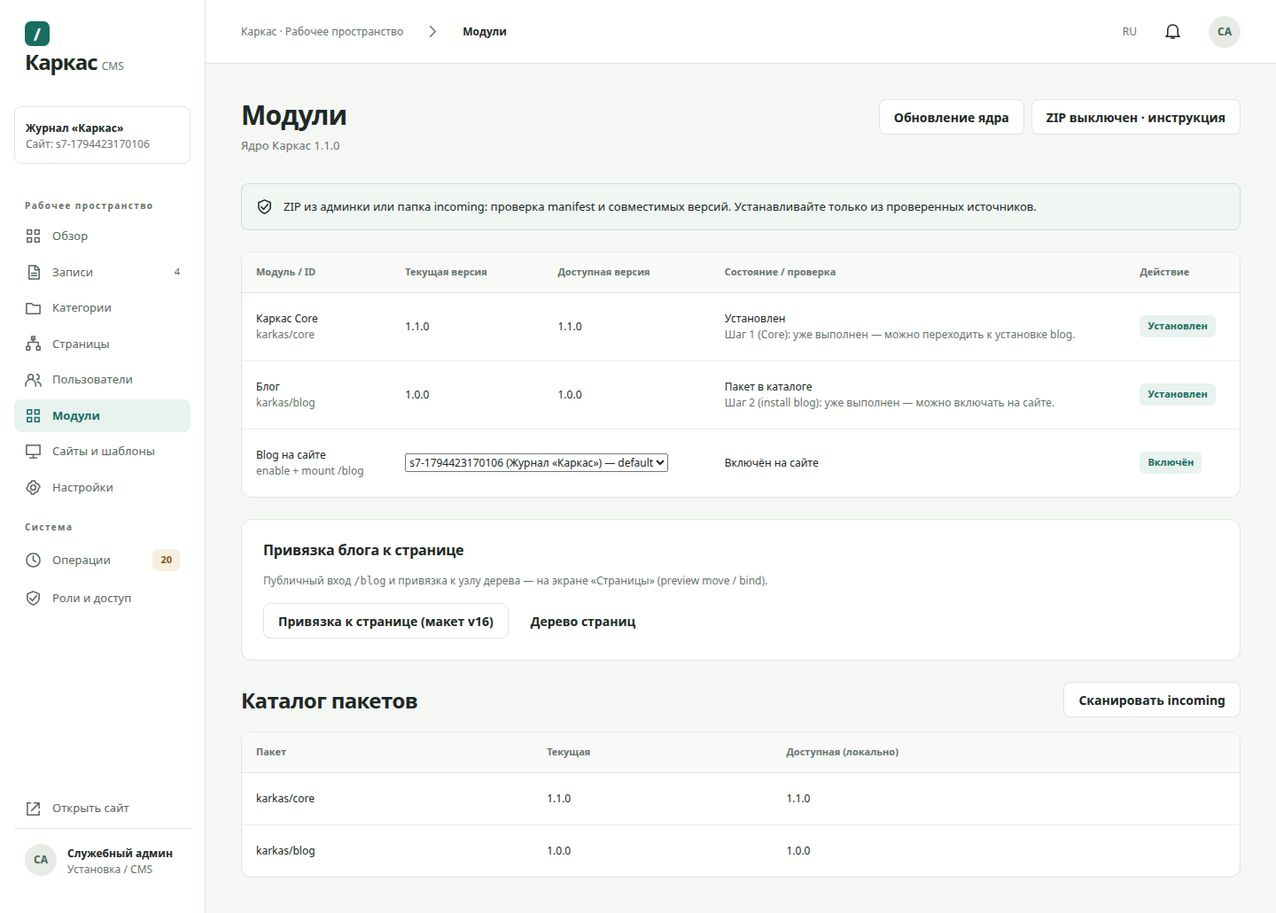
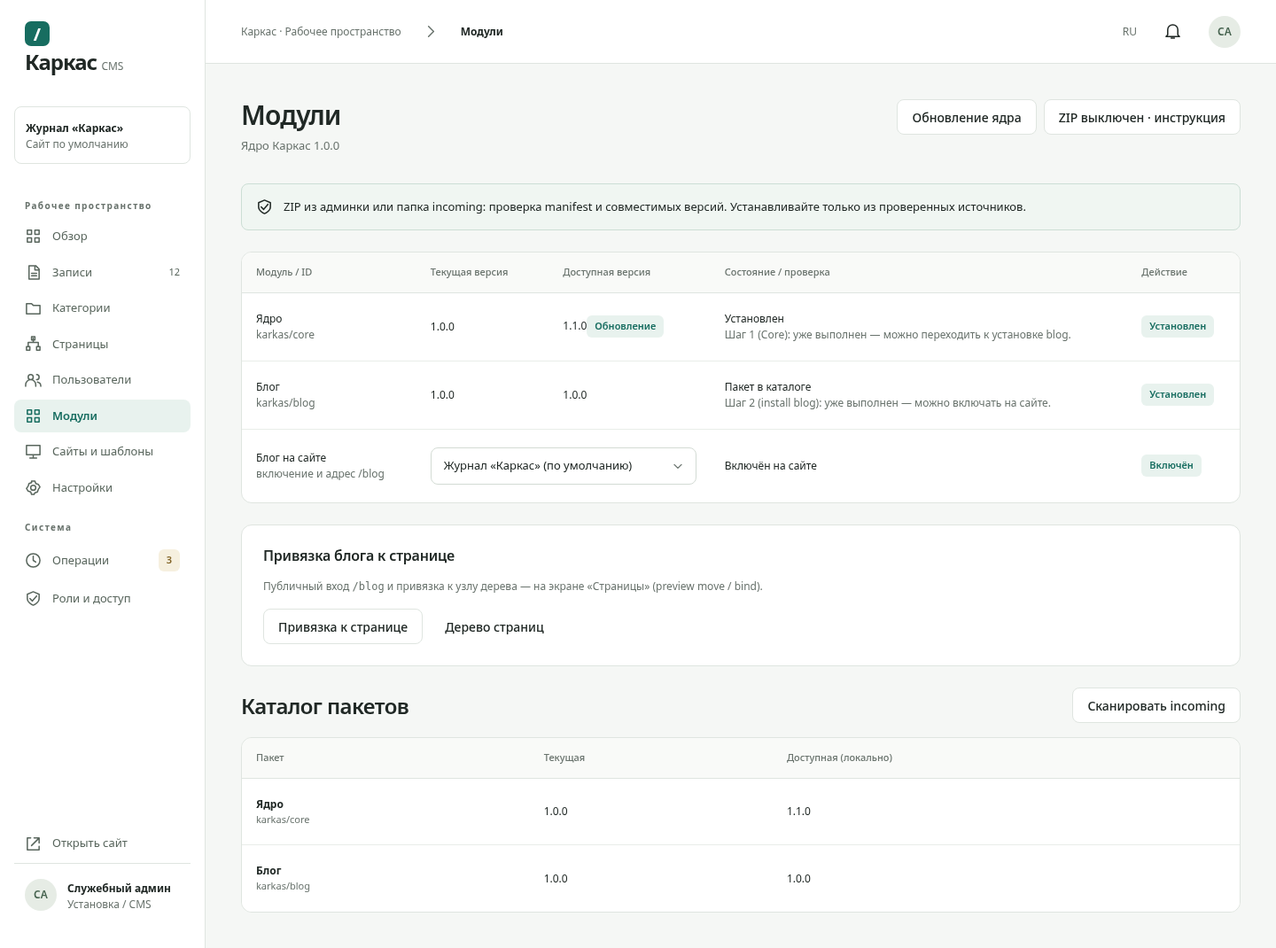
docs: stage-7.5 mockup/result pairs on fresh demo DB, local CI-like runs, CI link placeholder

diff --git a/docs/stage-7.5.md b/docs/stage-7.5.md
@@ -1,160 +1,159 @@
-# Stage 7.5 — Admin shell по макетам Дизайнера
+# Stage 7.5 — админка по макету v16
 
-Ветка **`grok_bot` → `develop`**, PR **#19** (доработка после ревью 12.11), **не мержить** до ревью Den.
+Ветка **`grok_bot`** (база `develop`), **не мержить** до ревью Den. Этап 8 не начат.
 
-**code-head:** `bcf04ff`  
-**docs-head:** `bcf04ff`
+**code-head:** `4bd831c` (коммиты этого прохода — см. `git log 43ef5a8..grok_bot`)
 
 ---
 
-## Цель
+## Что сделано в этом проходе
 
-Светлая админка на `tokens.css`, роутинг `/admin/...`, сайдбар как в макете v16, экраны на существующем API (этапы 3–7), фиксы blog (п. 4) и расхождений ревью 12.11.
+| # | Пункт | Статус | Как проверено |
+|---|---|---|---|
+| 1 | e2e stage4/stage5: обновление ядра | **готово** | `CoreUpdatePage` показывает текущую и доступную версию ядра. `helpers/core-upgrade-flow.ts` ждёт данные (`core-version-summary` / `core-version-available`) и ветвится: на чистой базе (Core 1.0.0, в каталоге 1.1.0) — полное обновление (кнопка disabled → чекбокс → enabled, шаг плана `karkas/core 1.0.0 → 1.1.0`, сообщение «Core обновлён до 1.1.0», summary, пустой план); если ядро уже обновлено — проверяется idle-состояние. В прогоне: desktop — `upgraded`, mobile — `already-current` (та же база). |
+| 2 | Flake `stage75-blog-admin` | **готово** | Перед `/admin/modules` ждём `admin-authenticated`, URL и `admin-shell` (без force/таймаутов). |
+| 3 | Скриншоты только на свежей демо-базе | **готово** | `stage75-screenshots.spec.ts` пропускается без `KARKAS_SCREENSHOTS=1`, поэтому в обычном `npm test` (и в CI) не трогает e2e-базу. Снимки делает `scripts/capture-stage75-screenshots.sh`: `down -v` → `up mysql app` → reset+seed демо → снимки 1440/390. |
+| 4 | Соответствие макету v16 | **готово, с оговорками ниже** | Дерево: строки на всю ширину, отступ по уровню, свёртка, статус в отдельной колонке. Записи: категория, автор, дата/время МСК, поиск + фильтры, сортировка, пагинация по 10. Обновление ядра: таблица совместимости, требования, план, `karkas/core` один раз. Операции: человекочитаемые типы и статусы, МСК. |
+| 5 | Названия вместо ID, компоненты вместо `<select>`, без «(макет v16)» | **готово** | Сайт везде — по названию (при дублях названия добавляется домен). Нативные `select` заменены на `AdminSelect` (combobox + listbox, клавиатура). Подписи «(макет v16)» и упоминания макета в UI убраны. |
+| 6 | 390: без горизонтального вылета, сворачиваемый сайдбар | **готово** | Новый `stage75-layout-overflow.spec.ts` проверяет все экраны админки на 1440 и 390. `overflow-x: hidden` с `.admin-main` **убран**; широкие таблицы на 390 прокручиваются внутри своей карточки (`.table-card { overflow-x: auto }`), записи на 390 — карточками. Сайдбар на ≤960px — выезжающий, кнопка `admin-menu-toggle`, закрытие по Esc/подложке/смене маршрута. |
+| 7 | Этот документ | **готово** | Пары макет/результат ниже; ссылка на CI — плейсхолдер. |
 
-## Артефакты
+### Оговорки (честно)
 
-| Артефакт | Путь |
-|----------|------|
-| HTML + `tokens.css` + `png/` | `docs/mockups/` |
-| Стили admin-ui | `admin-ui/src/tokens.css`, `admin-ui/src/admin-ui.css` |
-| SPA fallback | `AdminSpaController` + `public/admin/.htaccess` |
-| Скриншоты | `docs/stage-7.5/screenshots/` (Docker Apache :8080) |
-| Demo seed (dev/test) | `POST /api/v1/admin/demo/seed` — только `APP_ENV=dev|test` **и** `KARKAS_ALLOW_DEMO_SEED=1`; в **prod** маршрута нет (404) |
-| **Чистая база для скринов** | `POST /api/v1/admin/demo/reset` (те же guard) + `scripts/reset-demo-database.sh` (`api` \| `volume`) |
+- **Категории и авторы:** API нет до этапа 8. В списке записей колонка «Категория» показывает «Без категории», «Автор» — «Служебный админ» (единственный пользователь); фильтры работают по этим полям, когда API их отдаст (поля `category?` / `author?` уже в типе).
+- **Дерево страниц:** в демо-данных нет «Главной» и узла «Журнал (Модуль: Блог)» из макета — показано реальное дерево из API. Drag-and-drop — этап 8, перемещение через форму.
+- **Пользователи / Роли / Категории:** экраны-заглушки «нет API (этап 8)».
+- **390:** макетов 390 в наборе нет — сравнивали с 1440-макетом по структуре. Таблицы модулей/сайтов/совместимости на 390 прокручиваются внутри карточки — это допустимо, страница целиком по ширине не вылезает (проверяется тестом).
+- **Операции:** отдельного макета нет; `mock-1440-operations.png` раньше был копией макета обзора — удалён, чтобы не вводить в заблуждение.
+- Запись журнала `package.install` для ядра называется «Установка пакетов» (по payload нельзя отличить первую установку от обновления).
 
-### Чистая демо-база (скриншоты, не e2e)
+### Demo reset / seed
 
-Чтобы в «Сайтах» не копились e2e-сайты:
+`POST /api/v1/admin/demo/seed` и `/demo/reset` работают **только** при `APP_ENV=dev|test` **и** `KARKAS_ALLOW_DEMO_SEED=1` (`DemoApiGate`); иначе **404**, в prod — всегда 404 (`AdminDemoRoutesEnvironmentTest`: матрица gate, prod-kernel → 404, test+флаг → 401 без сессии). В CI-джобе Playwright флаг приходит из `docker-compose.yml` (`KARKAS_ALLOW_DEMO_SEED: ${KARKAS_ALLOW_DEMO_SEED:-1}` в env сервиса app) — workflow не менялся.
 
-1. `./scripts/reset-demo-database.sh api` — сессия + `demo/reset` (purge не-default сайтов + seed).
-2. `./scripts/reset-demo-database.sh volume` — пересоздать том MySQL, миграции, затем `api`.
-
-`e2e/tests/stage75-screenshots.spec.ts` вызывает **`resetAdminDemoForScreenshots`**, не `seed` alone. Полный Playwright-прогон на reset-базе **не гонять**.
+Ручной сброс демо-базы: `./scripts/reset-demo-database.sh api|volume`; снимки целиком — `./scripts/capture-stage75-screenshots.sh` (на этом боксе: `DOCKER_COMPOSE="sudo docker compose" COMPOSE_FILES="-f docker-compose.yml -f docker-compose.mysql84.yml"`).
 
 ---
 
 ## Скриншоты: макет / результат
 
-Макет **390** у Дизайнера в png-наборе **нет** — в колонке «Макет 390» помечено **—**.
-
-**Обновление пар mock/result (1440 и 390):** после `reset-demo-database.sh` и `stage75-screenshots.spec.ts` — по команде Den «тесты: go». Ниже — структура каталога; актуальные `result-*` заменят старые снимки с «грязной» базой.
+Результаты сняты на **свежей демо-базе** (`capture-stage75-screenshots.sh`, MySQL 8.4), не на e2e-базе. Макетов 390 нет.
 
 ### Вход
 
-| | 1440 | 390 |
-|---|------|-----|
-| **Макет** | ![mock login 1440](screenshots/mock-1440-login.png) | — |
-| **Результат** | ![result login 1440](screenshots/result-1440-login.png) | ![result login 390](screenshots/result-390-login.png) |
+| Макет 1440 | Результат 1440 | Результат 390 |
+|---|---|---|
+| ![макет login 1440](screenshots/mock-1440-login.png) | ![результат login 1440](screenshots/result-1440-login.png) | ![результат login 390](screenshots/result-390-login.png) |
 
 ### Обзор
 
-| | 1440 | 390 |
-|---|------|-----|
-| **Макет** | ![mock dashboard 1440](screenshots/mock-1440-dashboard.png) | — |
-| **Результат** | ![result dashboard 1440](screenshots/result-1440-dashboard.png) | ![result dashboard 390](screenshots/result-390-dashboard.png) |
+| Макет 1440 | Результат 1440 | Результат 390 |
+|---|---|---|
+| ![макет dashboard 1440](screenshots/mock-1440-dashboard.png) | ![результат dashboard 1440](screenshots/result-1440-dashboard.png) | ![результат dashboard 390](screenshots/result-390-dashboard.png) |
 
 ### Записи
 
-| | 1440 | 390 |
-|---|------|-----|
-| **Макет** | ![mock posts 1440](screenshots/mock-1440-posts.png) | — |
-| **Результат** | ![result posts 1440](screenshots/result-1440-posts.png) | ![result posts 390](screenshots/result-390-posts.png) |
+| Макет 1440 | Результат 1440 | Результат 390 |
+|---|---|---|
+| ![макет posts 1440](screenshots/mock-1440-posts.png) | ![результат posts 1440](screenshots/result-1440-posts.png) | ![результат posts 390](screenshots/result-390-posts.png) |
 
-### Редактор / история записи
+### Редактор записи
 
-| | 1440 | 390 |
-|---|------|-----|
-| **Макет** | — (editor / history в наборе v16 частично) | — |
-| **Результат** | ![result post editor 1440](screenshots/result-1440-post-editor.png) | ![result post editor 390](screenshots/result-390-post-editor.png) |
-| | ![result post history 1440](screenshots/result-1440-post-history.png) | ![result post history 390](screenshots/result-390-post-history.png) |
+| Макет 1440 | Результат 1440 | Результат 390 |
+|---|---|---|
+| ![макет post-editor 1440](screenshots/mock-1440-post-editor.png) | ![результат post-editor 1440](screenshots/result-1440-post-editor.png) | ![результат post-editor 390](screenshots/result-390-post-editor.png) |
 
-### Страницы / модули / сайты / настройки / операции / core / users / roles
+### История версий
 
-Пары `mock-1440-*` / `result-1440-*` и `result-390-*` для: `categories`, `pages`, `modules`, `sites`, `settings`, `operations`, `core-update`, `users`, `roles` — каталог `docs/stage-7.5/screenshots/`.
+| Макет 1440 | Результат 1440 | Результат 390 |
+|---|---|---|
+| ![макет post-history 1440](screenshots/mock-1440-post-history.png) | ![результат post-history 1440](screenshots/result-1440-post-history.png) | ![результат post-history 390](screenshots/result-390-post-history.png) |
 
----
+### Категории
 
-## Blog п. 4 (кратко)
+| Макет 1440 | Результат 1440 | Результат 390 |
+|---|---|---|
+| ![макет categories 1440](screenshots/mock-1440-categories.png) | ![результат categories 1440](screenshots/result-1440-categories.png) | ![результат categories 390](screenshots/result-390-categories.png) |
 
-| # | Причина | Фикс | Тест |
-|---|---------|------|------|
-| 1 | API-ошибки не показывались | `apiError.ts` | HTTP + UI |
-| 2 | Пустой `X-Karkas-Reauth` после reload | `ReauthModal` + sessionStorage | `stage75-blog-admin.spec.ts` |
-| 3 | Нет порядка шагов | wizard hints на `/modules` | `stage75-admin-navigation` |
-| 4 | plan/sites API | backend try/catch + 401 | `Stage75BlogAdminHttpTest` |
-| 5 | duplicate mount | idempotent enable | double enable HTTP |
-| 6 | `site_label` хардкод | label из сайта | e2e multisite |
-| 7 | Привязка blog | экраны `/modules/blog/*` (v16) | `stage7-blog-facade.spec.ts` (desktop) |
-| 8 | Flake после login | `admin-authenticated` + shell до `/modules` | `stage75-blog-admin.spec.ts` |
+### Страницы (дерево)
 
----
+| Макет 1440 | Результат 1440 | Результат 390 |
+|---|---|---|
+| ![макет pages 1440](screenshots/mock-1440-pages.png) | ![результат pages 1440](screenshots/result-1440-pages.png) | ![результат pages 390](screenshots/result-390-pages.png) |
 
-## Роуты admin-ui
+### Модули
 
-| Путь | Экран | API |
-|------|--------|-----|
-| `/admin/login` | staff-login карточка | session |
-| `/admin/dashboard` | Обзор (stats, ops, posts) | `GET /api/v1/admin/dashboard` |
-| `/admin/posts` | Таблица, фильтры, пагинация | `GET /api/v1/blog/posts` |
-| `/admin/posts/new`, `/:id`, `/:id/history` | Редактор / история | blog posts API |
-| `/admin/categories` | Заглушка этап 8 | **нет API** |
-| `/admin/pages` | tree-layout, move modal, preview | sites/pages API |
-| `/admin/modules` | installer + ссылка на binding | platform/install |
-| `/admin/modules/blog/{binding,unbind,…}` | binding flows | bind/unbind API |
-| `/admin/sites` | multisite + notice шаблонов | `/api/v1/sites` |
-| `/admin/settings` | settings-layout (read-only поля) | ZIP/maintenance + multisite read |
-| `/admin/core-update` | текущая + доступная, план, confirm | platform/plan + upgrade |
-| `/admin/operations` | log-entry карточки | `GET /api/v1/admin/platform/operations` |
-| `/admin/users`, `/admin/roles` | Заглушка этап 8 | **нет API** |
+| Макет 1440 | Результат 1440 | Результат 390 |
+|---|---|---|
+| ![макет modules 1440](screenshots/mock-1440-modules.png) | ![результат modules 1440](screenshots/result-1440-modules.png) | ![результат modules 390](screenshots/result-390-modules.png) |
 
----
+### Сайты и шаблоны
 
-## Вердикт по экранам (v16, ревью 12.11)
+| Макет 1440 | Результат 1440 | Результат 390 |
+|---|---|---|
+| ![макет sites 1440](screenshots/mock-1440-sites.png) | ![результат sites 1440](screenshots/result-1440-sites.png) | ![результат sites 390](screenshots/result-390-sites.png) |
 
-| Экран | Вердикт | Комментарий |
-|-------|---------|-------------|
-| Shell (sidebar, topbar) | **как в макете** | Workspace по **названию** сайта; на ≤960px — выезжающий сайдбар + menu, `overflow-x` без горизонтального вылета |
-| Вход (`staff-login`) | **как в макете** | Карточка; 2FA — этап 8 |
-| Обзор | **как в макете** (данные API) | Без графиков из макета |
-| Записи | **как в макете** (список) | Категория / автор / дата **МСК**, вкладки, поиск, сортировка, пагинация (client); WYSIWYG **отложено** |
-| Редактор / история | **частично** | Plain text API; статус через `AdminSelect` |
-| Категории | **нет API** | Заглушка этап 8 |
-| Страницы (`tree.html`) | **как в макете** (без DnD) | Строка на всю ширину, **статус в колонке**; move modal; DnD **этап 8** |
-| Модули | **частично** | Installer; сайт в `AdminSelect` по label |
-| Blog binding | **как в макете** (сценарии) | Instance — название сайта, без дубля `site_key` |
-| Сайты | **частично** | Таблица с id/key (админ-данные); скрины — на reset-базе |
-| Настройки | **частично** | Секции макета; SMTP **этап 8** |
-| Core update | **как в макете** (после фикса) | **Текущая + доступная** версии; таблица совместимости, требования, план **без дубля** `karkas/core` в шагах |
-| Операции | **как в макете** (журнал) | Человекочитаемые типы/статусы, МСК |
-| Пользователи / Роли | **нет API** | Заглушка |
-| Mobile 390 | **частично → ок по shell** | Сайдбар collapsible; контентные таблицы на узкой ширине всё ещё плотные |
+### Настройки
+
+| Макет 1440 | Результат 1440 | Результат 390 |
+|---|---|---|
+| ![макет settings 1440](screenshots/mock-1440-settings.png) | ![результат settings 1440](screenshots/result-1440-settings.png) | ![результат settings 390](screenshots/result-390-settings.png) |
+
+### Операции
+
+| Макет 1440 | Результат 1440 | Результат 390 |
+|---|---|---|
+| — (отдельного макета нет в наборе v16; ближайший — блок «Фоновые операции» на обзоре) | ![результат operations 1440](screenshots/result-1440-operations.png) | ![результат operations 390](screenshots/result-390-operations.png) |
+
+### Обновление ядра
+
+| Макет 1440 | Результат 1440 | Результат 390 |
+|---|---|---|
+| ![макет core-update 1440](screenshots/mock-1440-core-update.png) | ![результат core-update 1440](screenshots/result-1440-core-update.png) | ![результат core-update 390](screenshots/result-390-core-update.png) |
+
+### Пользователи
+
+| Макет 1440 | Результат 1440 | Результат 390 |
+|---|---|---|
+| ![макет users 1440](screenshots/mock-1440-users.png) | ![результат users 1440](screenshots/result-1440-users.png) | ![результат users 390](screenshots/result-390-users.png) |
+
+### Роли и доступ
+
+| Макет 1440 | Результат 1440 | Результат 390 |
+|---|---|---|
+| ![макет roles 1440](screenshots/mock-1440-roles.png) | ![результат roles 1440](screenshots/result-1440-roles.png) | ![результат roles 390](screenshots/result-390-roles.png) |
 
 ---
 
-## Тесты
+## Локальная проверка (как CI, Docker Compose, PHP 8.4 + MySQL 8.4)
 
-- PHPUnit: stage75 suite
-- Playwright: `stage4`/`stage5` core upgrade по `upgrade-core` / `core-upgrade-idle`, не по тексту summary; `helpers/core-upgrade-flow.ts`
+Финальные два раунда на коде `4bd831c` (тот же код, что в коммитах; 21.11.2026 ночью по МСК). Скрипт раунда — локальный (`/workspace/karkas-proof/ci-round.sh`, не в репозитории); шаги повторяют джобы `.github/workflows/ci.yml`.
 
-### Прогон (ожидает «тесты: go»)
+| Шаг | Команда | Раунд 1 | Раунд 2 |
+|---|---|---|---|
+| php-static | `composer phpstan && composer lint:php` (образ `karkas-cms-cli`, PHP 8.4) | phpstan `[OK] No errors`, cs-fixer 0 файлов | то же |
+| PHPUnit | `vendor/bin/phpunit` с `DATABASE_URL=mysql://…/karkas_test?serverVersion=8.4`, `APP_SECRET` как в CI | Tests 74, Assertions 257, Skipped 1 (`ApacheWebSapiProbeTest` — нужен `STAGE0_HTTP_PROBE_BASE_URL`), 0 failures | то же |
+| admin-ui | `npm run lint && npm run typecheck && npm run build` | 0 errors, 2 warnings (уже были до прохода: react-refresh, exhaustive-deps в AdminContext) | то же |
+| Playwright + axe | свежий стек `docker compose up -d mysql app` (MySQL 8.4), `CI=1 npx playwright test --retries=0 --workers=1`, проекты desktop-chrome 1440 и mobile-chrome 390 | **89 passed, 31 skipped, 0 failed** | **89 passed, 31 skipped, 0 failed** |
 
-Локальный и **PR CI** на push `grok_bot` — зафиксировать зелёный run в этом разделе после прогона.
+31 skipped = 28 снимков `stage75-screenshots` (opt-in, `KARKAS_SCREENSHOTS=1`) + 3 desktop-only теста на mobile (`stage6` ×2, `stage7-blog-facade`). Retries выключены (в CI — 1). Обновление ядра: desktop — `upgraded` (1.0.0 → 1.1.0), mobile — `already-current`.
 
-PHPUnit / Playwright / axe / screenshot spec — **не запускались** в кодовом проходе (ограничение Den).
+Скриншоты: `./scripts/capture-stage75-screenshots.sh` на свежей демо-базе — 30 passed (28 снимков + 2 проверки).
+
+Отличия от CI: Playwright-джоба CI использует MySQL 8.0 (локально 8.4); Node локально 24, в CI 22.
 
 ---
 
 ## CI
 
-PR **`grok_bot` → `develop`** — смотреть актуальный зелёный **Playwright + PHPUnit** workflow на GitHub Actions после push (не только локальный итог). Workflow файлы не менялись.
+Зелёный run GitHub Actions для этого head: **_ссылка на CI run — добавить после push_**. Workflow-файлы не менялись; Actions в этом проходе не запускались.
 
 ---
 
 ## Вопросы к Den (с предложениями)
 
-1. **Категории** — минимальный read-only API в 7.5.1 или ждать этап 8?
-2. **Шаблоны сайтов** — отдельный экран при появлении API или вкладка на `/sites`?
-3. **Binding conflict** — live API конфликта или статический route?
-4. **Dashboard** — доп. агрегаты (графики)?
-5. **Дерево на mobile** — адаптация move-form под 390?
-6. **Demo reset** — достаточно ли guard как у seed, или отдельный env для prod-like?
+1. **Категории и авторы записей** — в списке пока «Без категории» / «Служебный админ». *Предложение:* отдать `category`/`author` в `GET /api/v1/blog/posts` на этапе 8 вместе с API категорий и пользователей; UI уже готов.
+2. **Узел «Журнал (Модуль: Блог)» в демо-дереве** — *предложение:* в демо-seed привязывать блог к странице, чтобы дерево совпадало с макетом.
+3. **Подключения к БД** — `DatabaseConnectionFactory::create()` открывает новое соединение на каждый вызов (66 мест). Не менял (риск для транзакций). *Предложение:* отдельной задачей сделать request-scoped соединение.
+4. **MySQL в CI** — Playwright-джоба CI использует MySQL 8.0 (default compose), локально гоняли 8.4. *Предложение:* оставить как есть (PHPUnit-матрица CI покрывает обе версии).
+5. **Node** — локально Node 24, в CI 22. *Предложение:* ничего не менять; если появятся расхождения сборки — зафиксировать `engines`.
